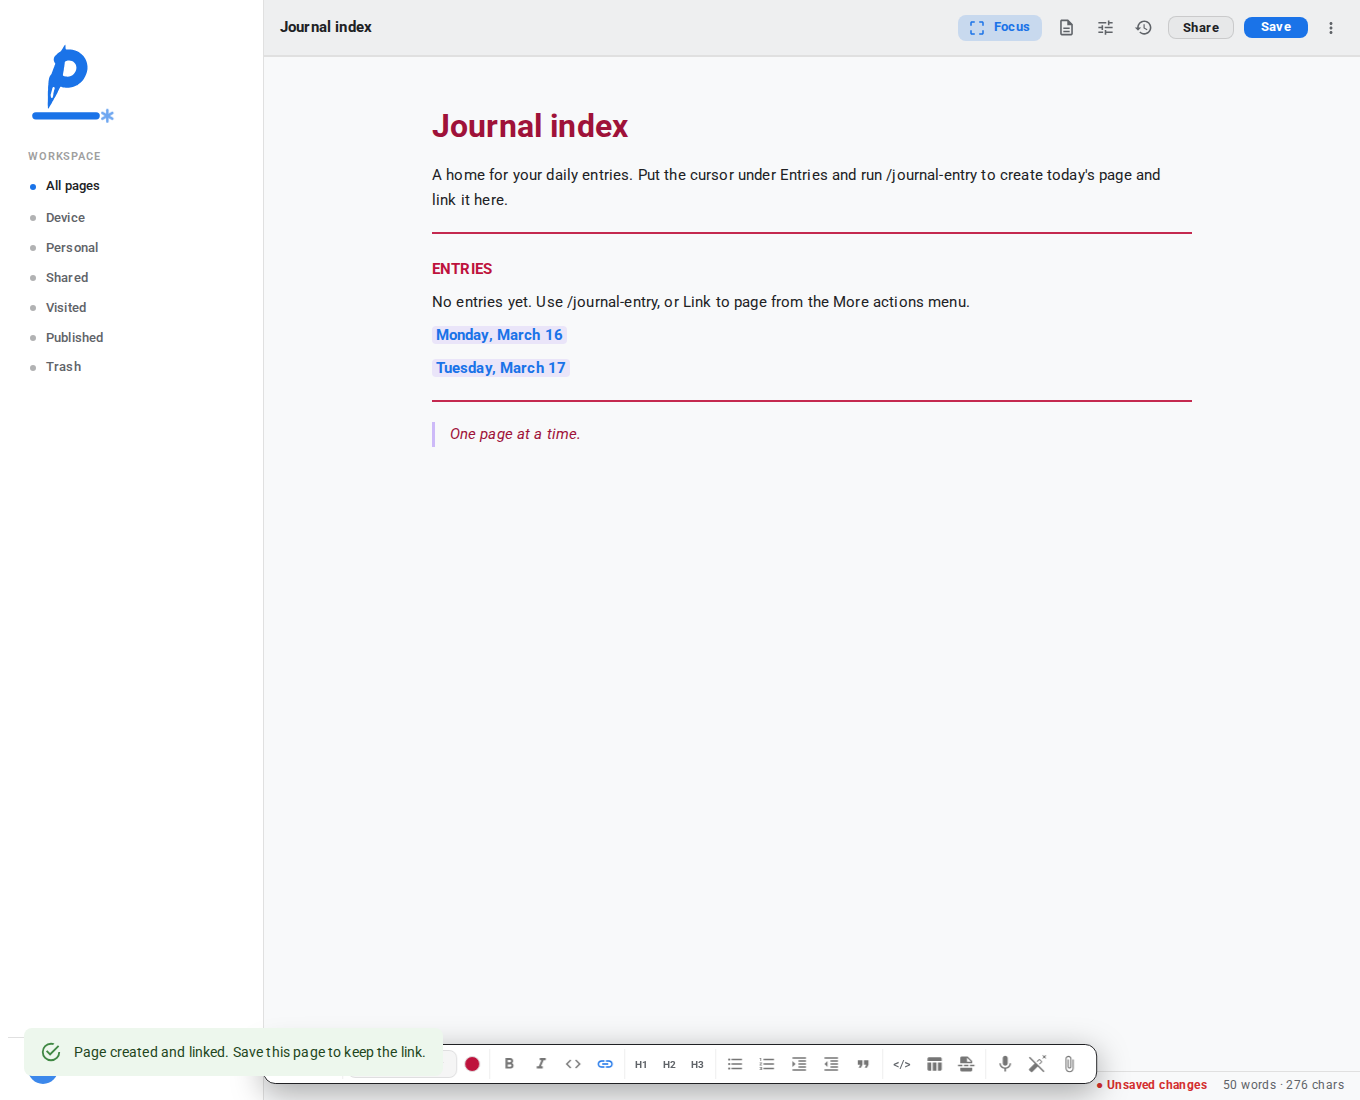
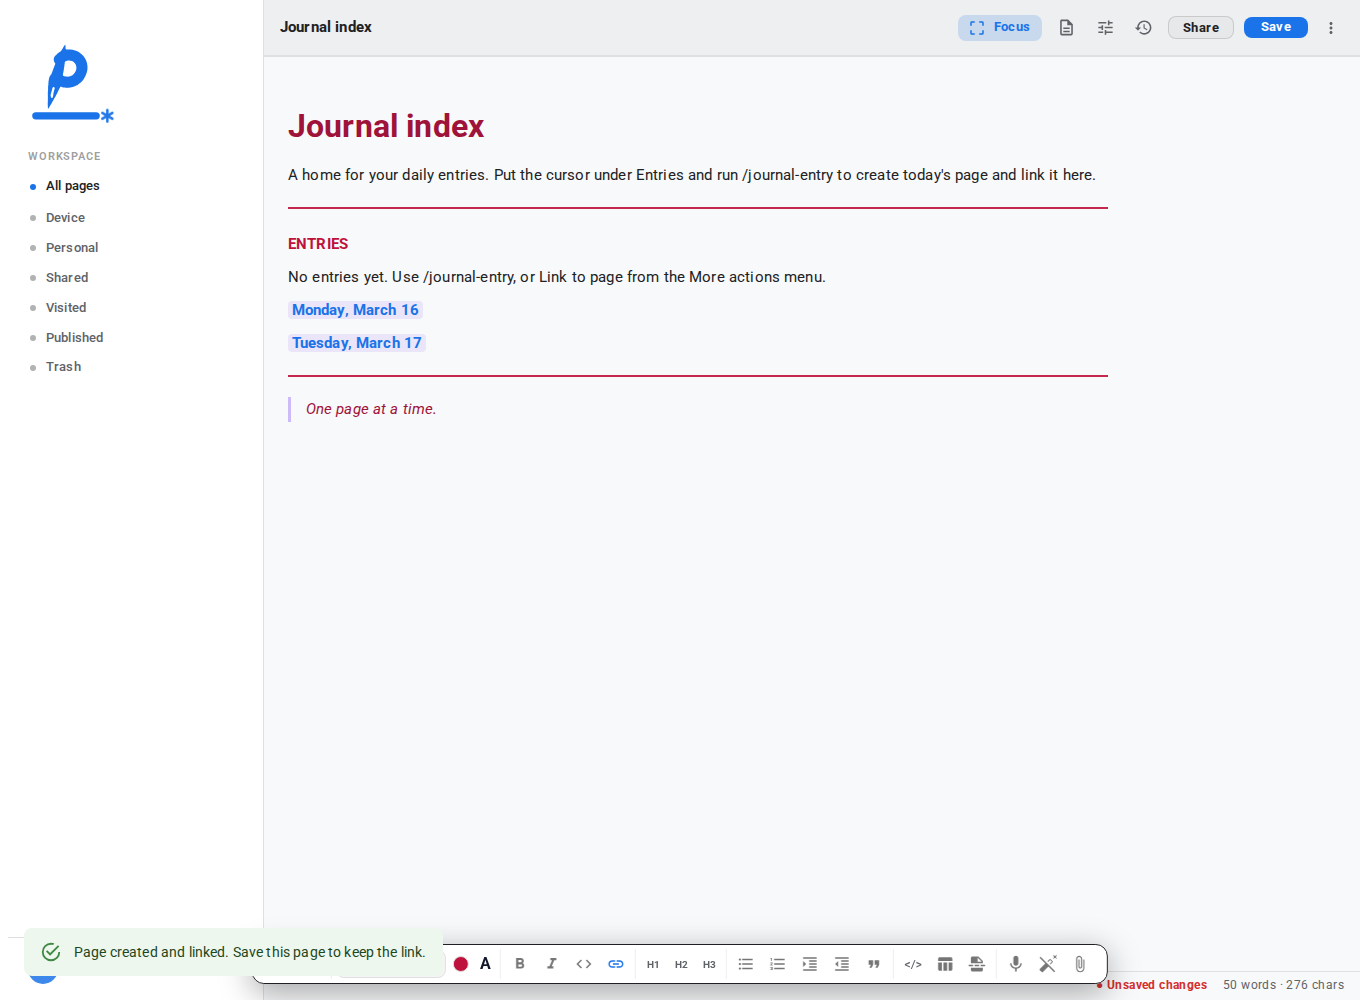
fix(docs): polish text colours, notes spacing and page-link UI
- remove user-facing legacy/rich labels and raw addresses from the page link picker
- add a selection text colour control; with a cursor inside a heading it colours the whole heading
- serialize inline colours to Markdown spans so previews, backups and exports keep them
- left-align the notes canvas at desktop widths and widen it, removing the large invisible left gap
- test per-heading colour survives save + reload
- refresh resume and journal-index screenshots

diff --git a/src/components/editor/DocEditorController.tsx b/src/components/editor/DocEditorController.tsx
@@ -34,7 +34,7 @@ import {
 } from "@tiptap/pm/model";
 import { closeHistory } from "@tiptap/pm/history";
 import StarterKit from "@tiptap/starter-kit";
-import { TextStyle, FontSize, LineHeight, Color } from "@tiptap/extension-text-style";
+import { TextStyle, FontSize, LineHeight } from "@tiptap/extension-text-style";
 import { FontFamily } from "@tiptap/extension-font-family";
 import TextAlign from "@tiptap/extension-text-align";
 import { Markdown } from "tiptap-markdown";
@@ -46,6 +46,7 @@ import { TableRow } from "@tiptap/extension-table-row";
 import { TableHeader } from "@tiptap/extension-table-header";
 import { TableCell } from "@tiptap/extension-table-cell";
 import { Columns, Column } from "./extensions/Columns";
+import { MarkdownColor } from "./extensions/MarkdownColor";
 import { EncryptedFileNode } from "./extensions/EncryptedFileNode";
 import { CommentHighlight } from "./extensions/CommentHighlight";
 import { FormNode } from "./extensions/FormNode";
@@ -939,7 +940,7 @@ Date: ${date} · Mood: ____
       // stay registered so older documents parse and round-trip unchanged.
       FontSize,
       LineHeight,
-      Color,
+      MarkdownColor,
       TextAlign.configure({ types: ["heading", "paragraph"] }),
       // html: true so <encrypted-file> tags round-trip through markdown storage.
       // transformPastedText: plain-text clipboard content (no text/html, e.g.
@@ -2114,6 +2115,21 @@ Date: ${date} · Mood: ____
     await createLinkedPage(editor, title, `# ${title}\n\n`);
   };
 
+  const handleTextColorChange = (color: string) => {
+    if (!editor) return;
+    const { selection } = editor.state;
+    if (selection.empty) {
+      const { $from } = selection;
+      const from = $from.start();
+      const to = $from.end();
+      if (to > from) {
+        editor.chain().focus().setTextSelection({ from, to }).setColor(color).run();
+        return;
+      }
+    }
+    editor.chain().focus().setColor(color).run();
+  };
+
   /* Build a FormsSigner adapter from the app's signerManager */
   const formsSigner: FormsSigner | null = user
     ? {
@@ -2338,6 +2354,7 @@ Date: ${date} · Mood: ____
             }
             accentColor={accentColor}
             onAccentColorChange={canEditLayout ? handleAccentColorChange : undefined}
+            onTextColorChange={!isViewOnly ? handleTextColorChange : undefined}
             proofreadDocumentLength={md.length}
             proofreadStatus={textSuggest.proofreadStatus}
             onProofread={handleProofread}

diff --git a/src/components/editor/EditorToolbar.tsx b/src/components/editor/EditorToolbar.tsx
@@ -174,6 +174,7 @@ type Props = {
   onBaseFontChange?: (family: string) => void;
   accentColor?: string;
   onAccentColorChange?: (color: string) => void;
+  onTextColorChange?: (color: string) => void;
   proofreadDocumentLength?: number;
   proofreadStatus?: ProofreadStatus;
   onProofread?: (instruction: string) => Promise<void>;
@@ -223,6 +224,7 @@ export function EditorToolbar({
   onBaseFontChange,
   accentColor = "#2563EB",
   onAccentColorChange,
+  onTextColorChange,
   proofreadDocumentLength = 0,
   proofreadStatus = { kind: "idle" },
   onProofread,
@@ -351,6 +353,13 @@ export function EditorToolbar({
     editor,
     selector: ({ editor: e }) => e?.isActive("table") ?? false,
   });
+  const activeTextColor =
+    useEditorState({
+      editor,
+      selector: ({ editor: e }) =>
+        (e?.getAttributes("textStyle").color as string | undefined) ??
+        "#111827",
+    }) || "#111827";
   const activeFontFamily = baseFontFamily;
   const fontOptions = activeFontFamily && !availableFonts.includes(activeFontFamily)
     ? [...availableFonts, activeFontFamily]
@@ -1207,6 +1216,34 @@ export function EditorToolbar({
                     type="color"
                     value={accentColor}
                     onChange={(e) => onAccentColorChange(e.target.value)}
+                    style={{ display: "none" }}
+                  />
+                </IconButton>
+              </Tooltip>
+            )}
+
+            {onTextColorChange && (
+              <Tooltip title="Text colour (selection)">
+                <IconButton
+                  component="label"
+                  size="small"
+                  aria-label="Text colour"
+                  sx={{ p: 0.6 }}
+                >
+                  <Box
+                    sx={{
+                      fontWeight: 800,
+                      fontSize: 16,
+                      lineHeight: 1,
+                      color: activeTextColor,
+                    }}
+                  >
+                    A
+                  </Box>
+                  <input
+                    type="color"
+                    value={activeTextColor}
+                    onChange={(e) => onTextColorChange(e.target.value)}
                     style={{ display: "none" }}
                   />
                 </IconButton>

diff --git a/tests/e2e/templates.spec.ts b/tests/e2e/templates.spec.ts
@@ -79,6 +79,45 @@ test("accent colour can be changed from the toolbar", async ({ page }) => {
   expect(color).toBe("rgb(239, 68, 68)");
 });
 
+test("text colour applies to a single heading and survives reload", async ({ page }) => {
+  await loginAsGuest(page);
+  await page.getByRole("button", { name: "All pages" }).click();
+  await page.getByRole("button", { name: "New page" }).first().click();
+  const dialog = page.getByRole("dialog").filter({ hasText: "Start a new page" });
+  await dialog.getByRole("button", { name: "Start with Resume", exact: true }).click();
+  await page.waitForTimeout(500);
+
+  await page.getByText("Summary", { exact: true }).click();
+  const colorInput = page
+    .getByRole("button", { name: "Text colour" })
+    .locator('input[type="color"]');
+  await colorInput.evaluate((element) => {
+    const input = element as HTMLInputElement;
+    const setter = Object.getOwnPropertyDescriptor(
+      HTMLInputElement.prototype,
+      "value",
+    )?.set;
+    setter?.call(input, "#ef4444");
+    input.dispatchEvent(new Event("input", { bubbles: true }));
+    input.dispatchEvent(new Event("change", { bubbles: true }));
+  });
+  await page.waitForTimeout(400);
+
+  const headingColor = async () =>
+    page
+      .locator("[data-pages-page] h2 span")
+      .first()
+      .evaluate((element) => getComputedStyle(element).color);
+  expect(await headingColor()).toBe("rgb(239, 68, 68)");
+
+  await page.getByRole("button", { name: "Save", exact: true }).click();
+  await expect(page.getByText("Saved", { exact: true })).toBeVisible({ timeout: 20_000 });
+  await page.reload();
+  await unlockAfterReload(page);
+
+  expect(await headingColor()).toBe("rgb(239, 68, 68)");
+});
+
 test("all starter templates open with their starter content", async ({ page }) => {
   page.on("dialog", (dialog) => void dialog.accept());
   await loginAsGuest(page);

diff --git a/src/components/PageLinkDialog.tsx b/src/components/PageLinkDialog.tsx
@@ -2,7 +2,6 @@ import { useMemo, useState } from "react";
 import {
   Box,
   Button,
-  Chip,
   CircularProgress,
   Dialog,
   DialogActions,
@@ -25,7 +24,6 @@ import { heuristicTitle } from "../lib/docSearch";
 interface PageItem {
   address: string;
   title: string;
-  kind: number;
 }
 
 /**
@@ -65,7 +63,6 @@ export function PageLinkDialog({
       list.push({
         address,
         title,
-        kind: Number(address.split(":")[0]),
       });
     }
     return list.sort((a, b) => a.title.localeCompare(b.title));
@@ -152,18 +149,7 @@ export function PageLinkDialog({
               >
                 <ListItemText
                   primary={item.title}
-                  secondary={item.address}
                   primaryTypographyProps={{ fontSize: "0.88rem", fontWeight: 600 }}
-                  secondaryTypographyProps={{
-                    fontSize: "0.68rem",
-                    noWrap: true,
-                    sx: { fontFamily: "monospace" },
-                  }}
-                />
-                <Chip
-                  label={item.kind === 33458 ? "rich" : "legacy"}
-                  size="small"
-                  sx={{ height: 18, fontSize: "0.6rem" }}
                 />
               </ListItemButton>
             ))

diff --git a/src/components/editor/extensions/MarkdownColor.ts b/src/components/editor/extensions/MarkdownColor.ts
@@ -1,0 +1,30 @@
+import { Color } from "@tiptap/extension-text-style";
+
+type MarkdownState = unknown;
+type MarkdownMark = { attrs?: { color?: string } };
+
+/**
+ * Color mark with a Markdown serializer. The canonical rich document stores the
+ * color inline on the selected text; when we project to Markdown we emit a
+ * span so previews, backups and exports keep it. Markdown parsing restores the
+ * mark from the same span (markdown-it runs with html: true).
+ */
+export const MarkdownColor = Color.extend({
+  addStorage() {
+    return {
+      markdown: {
+        serialize: {
+          open(_state: MarkdownState, mark: MarkdownMark) {
+            return mark.attrs?.color
+              ? `<span style="color: ${mark.attrs.color}">`
+              : "";
+          },
+          close(_state: MarkdownState, mark: MarkdownMark) {
+            return mark.attrs?.color ? "</span>" : "";
+          },
+        },
+        parse: {},
+      },
+    };
+  },
+});

diff --git a/src/lib/markdownToDocument.ts b/src/lib/markdownToDocument.ts
@@ -9,6 +9,7 @@ import { TableRow } from "@tiptap/extension-table-row";
 import { TableHeader } from "@tiptap/extension-table-header";
 import { TableCell } from "@tiptap/extension-table-cell";
 import { Columns, Column } from "../components/editor/extensions/Columns";
+import { MarkdownColor } from "../components/editor/extensions/MarkdownColor";
 import MarkdownIt from "markdown-it";
 import { Indent } from "../components/editor/extensions/Indent";
 import { EncryptedFileNode } from "../components/editor/extensions/EncryptedFileNode";
@@ -28,6 +29,7 @@ const markdown = new MarkdownIt({ html: true, linkify: true });
 const documentExtensions = [
   StarterKit,
   TextStyle,
+  MarkdownColor,
   FontFamily,
   Link.configure({ openOnClick: false }),
   Table.configure({ resizable: false }),

diff --git a/src/components/editor/DocumentPage.tsx b/src/components/editor/DocumentPage.tsx
@@ -89,7 +89,7 @@ export function DocumentPage({
       <Box
         sx={{
           display: "flex",
-          justifyContent: "center",
+          justifyContent: { xs: "center", md: "flex-start" },
           width: "100%",
           py: { xs: 2, sm: 3 },
           px: { xs: 2, sm: 3 },
@@ -101,7 +101,7 @@ export function DocumentPage({
           ref={contentRef}
           sx={{
             width: "100%",
-            maxWidth: 760,
+            maxWidth: 820,
             color: "text.primary",
             ...typography,
           }}

diff --git a/src/lib/documentFormat.ts b/src/lib/documentFormat.ts
@@ -125,6 +125,11 @@ function inlineToMarkdown(node: JSONContent): string {
         case "link":
           text = `[${text}](${mark.attrs?.href ?? ""})`;
           break;
+        case "textStyle":
+          if (mark.attrs?.color) {
+            text = `<span style="color: ${mark.attrs.color}">${text}</span>`;
+          }
+          break;
         default:
           break;
       }
